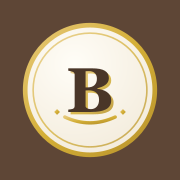
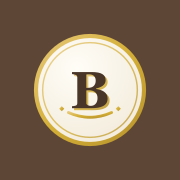
أيقونة التطبيق: تصغير الختم أكثر وزيادة الهامش (قرص r36→r30 داخل المربّع البنّي) — كان اللوقو لا يزال كبيراً؛ الآن ختم أصغر مركزّي بهامش بنّي واسع متناسق مع أيقونات التطبيقات. رفعنا الكاش ?v=6→v=7. أيقونة البحث الدائرية لم تتغيّر

Changed region(s): [[0.1111, 0.1111, 0.8889, 0.8889]]

diff --git a/client/index.html b/client/index.html
@@ -2,11 +2,11 @@
 <html lang="ar" dir="rtl">
   <head>
     <meta charset="UTF-8" />
-    <link rel="icon" href="/favicon.ico?v=6" sizes="any" />
-    <link rel="icon" type="image/svg+xml" href="/favicon.svg?v=6" />
-    <link rel="icon" type="image/png" sizes="32x32" href="/favicon-32.png?v=6" />
-    <link rel="icon" type="image/png" sizes="16x16" href="/favicon-16.png?v=6" />
-    <link rel="apple-touch-icon" sizes="180x180" href="/apple-touch-icon.png?v=6" />
+    <link rel="icon" href="/favicon.ico?v=7" sizes="any" />
+    <link rel="icon" type="image/svg+xml" href="/favicon.svg?v=7" />
+    <link rel="icon" type="image/png" sizes="32x32" href="/favicon-32.png?v=7" />
+    <link rel="icon" type="image/png" sizes="16x16" href="/favicon-16.png?v=7" />
+    <link rel="apple-touch-icon" sizes="180x180" href="/apple-touch-icon.png?v=7" />
     <meta name="viewport" content="width=device-width, initial-scale=1.0" />
 
     <!-- لون الواجهة وهوية Apple (Safari / Siri / الشاشة الرئيسية) -->